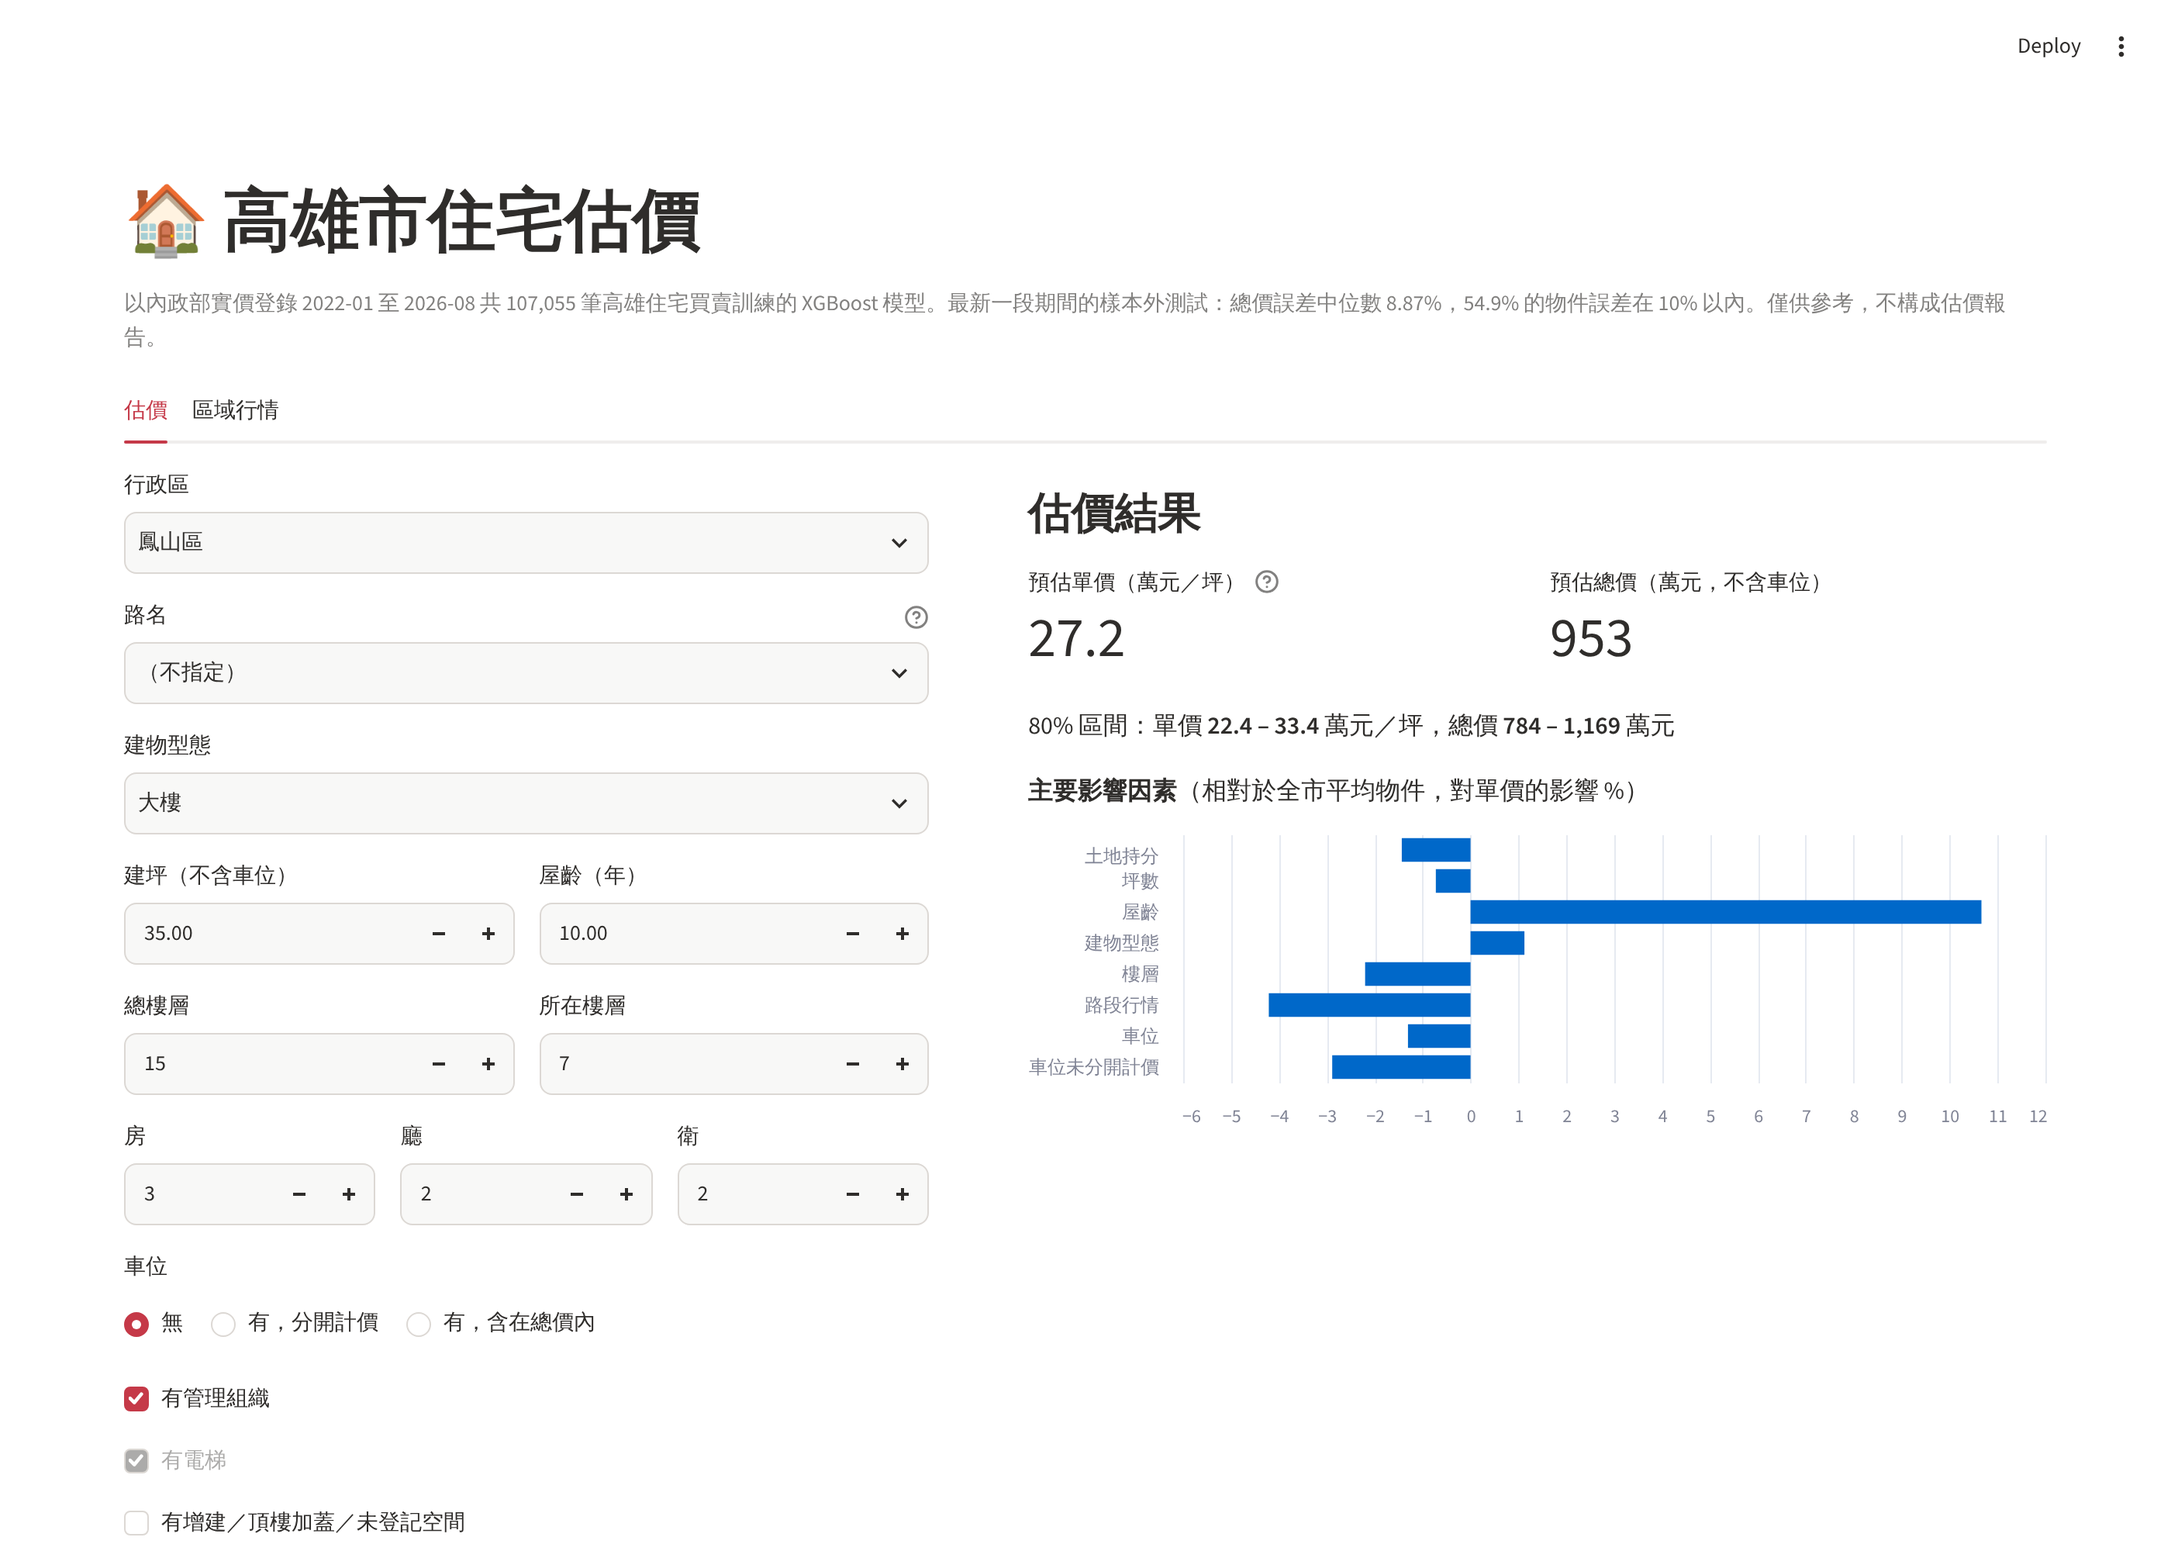
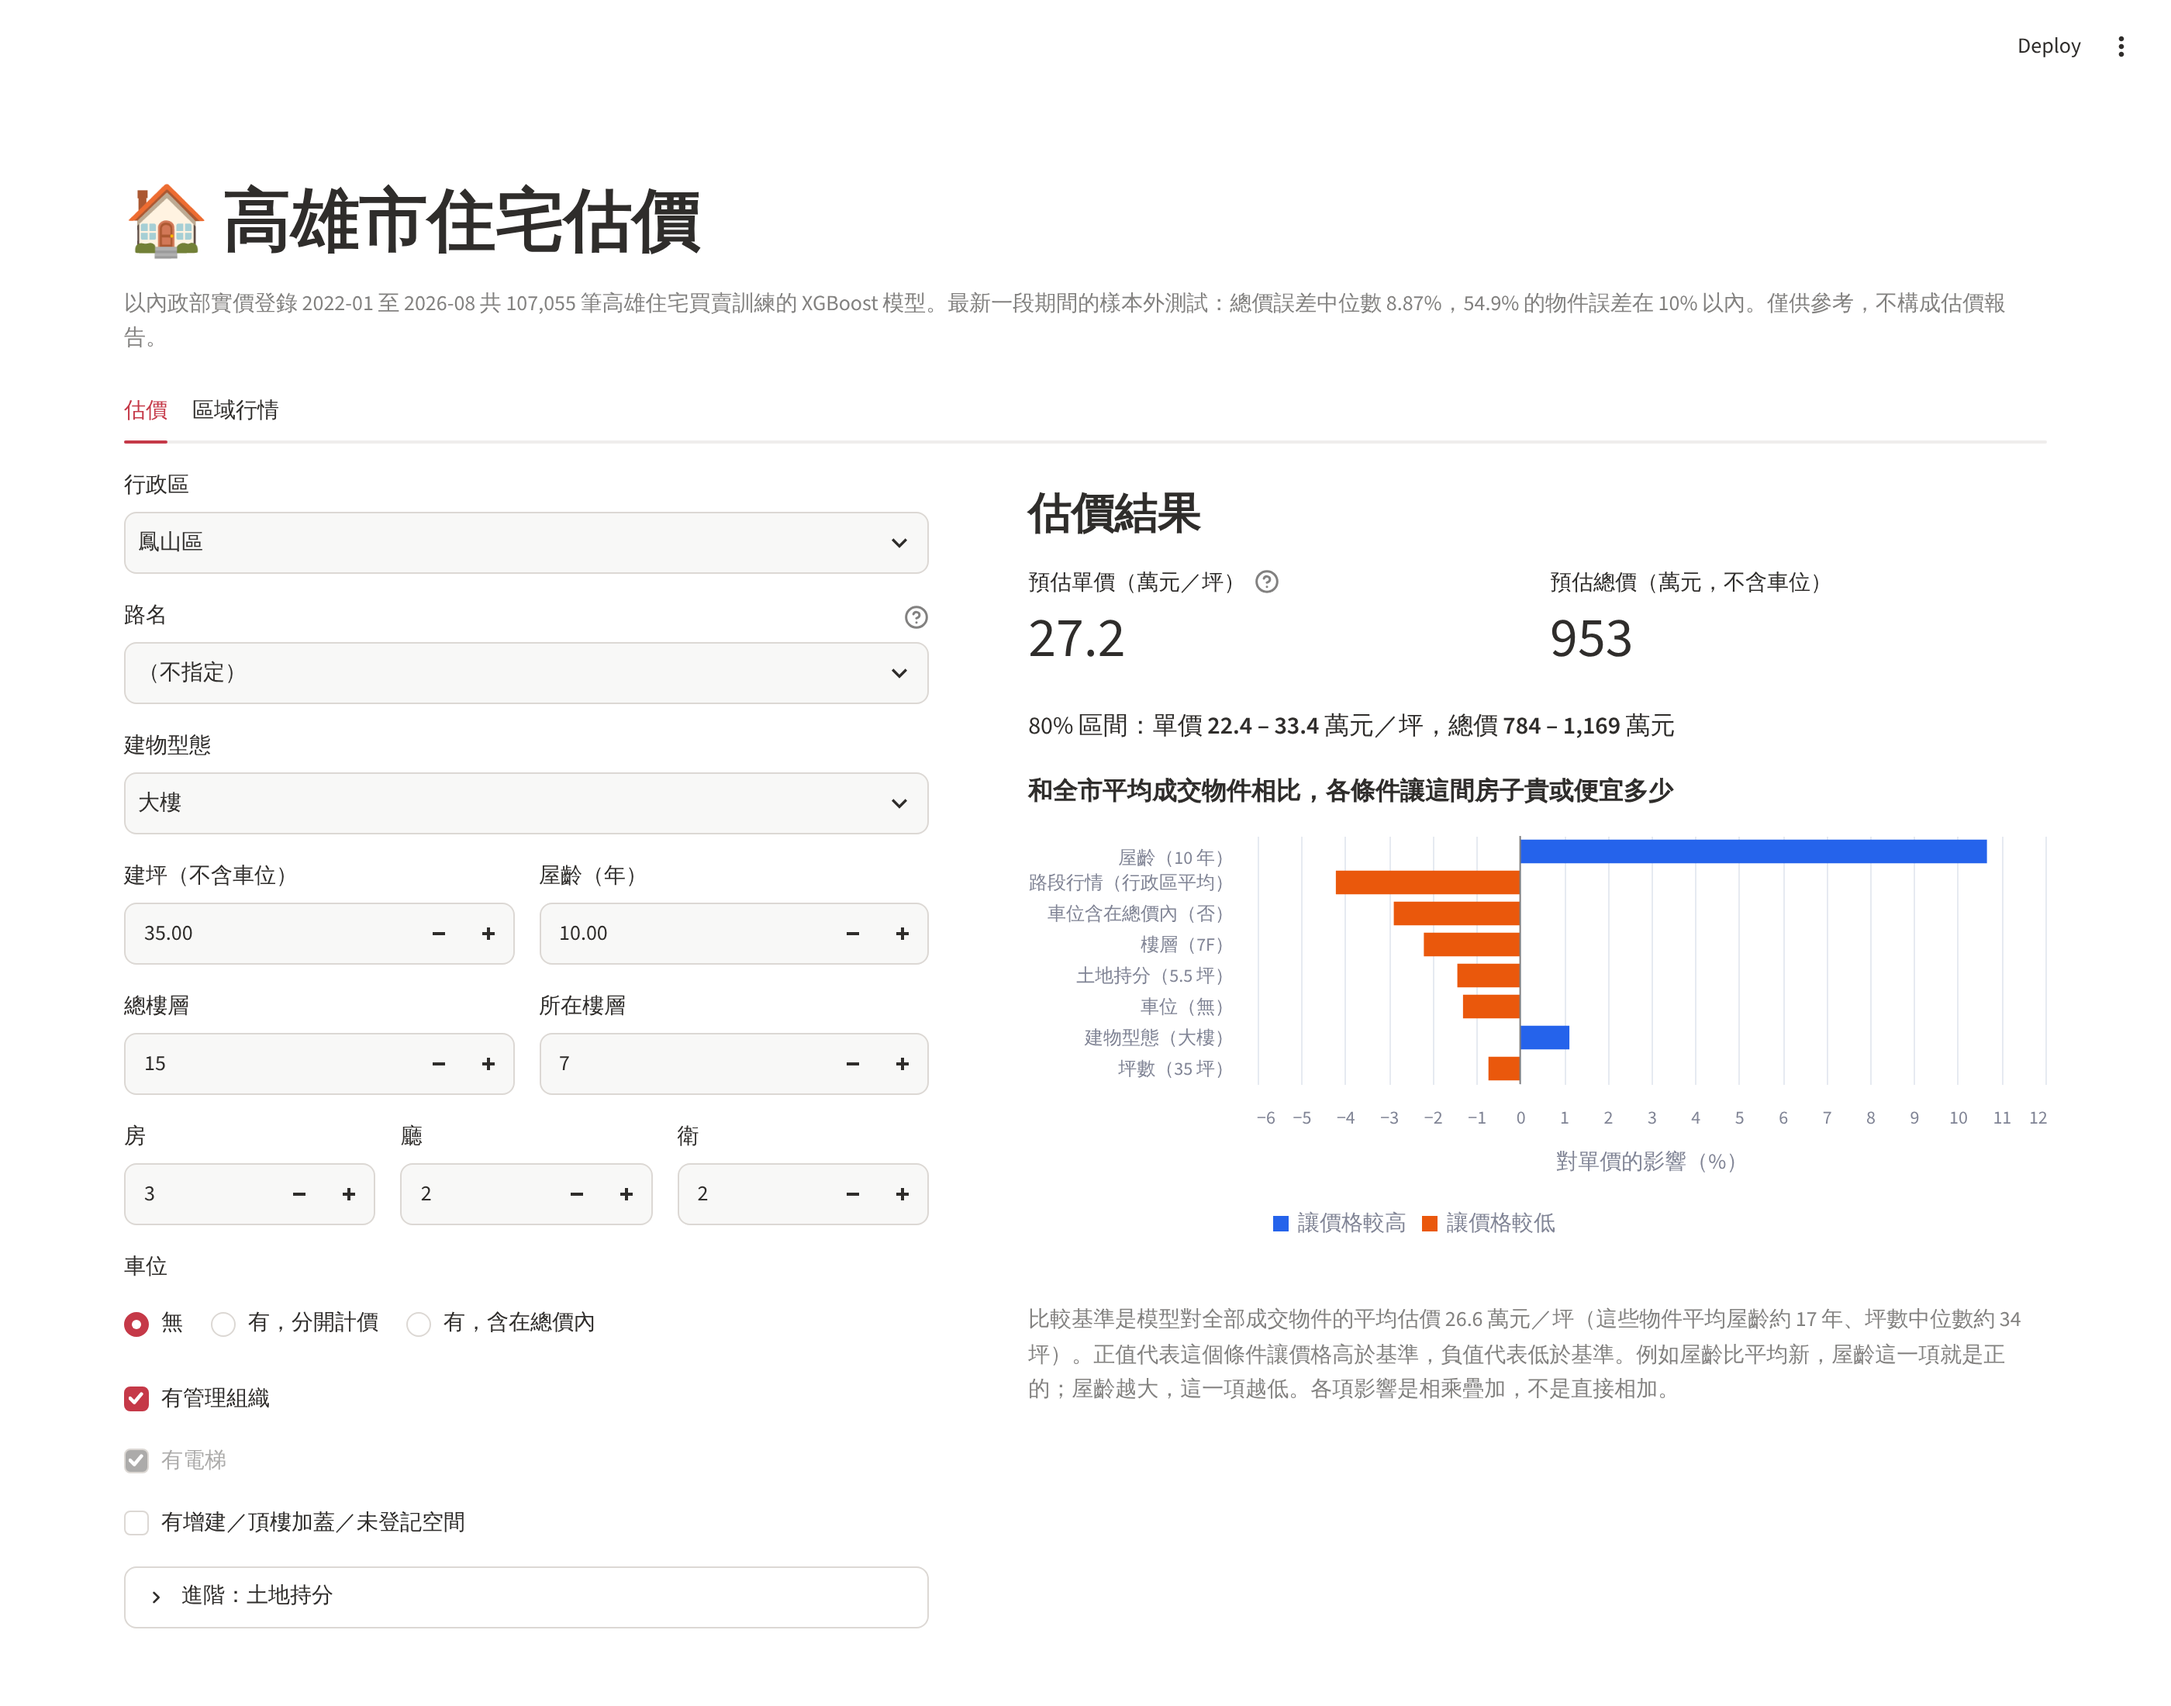
Make the app's price-driver chart easier to read
- title states the comparison: each condition vs the average sold home
- bar labels show the input value, e.g. 屋齡（10 年）
- caption explains the SHAP baseline (model's average valuation, with the
  sample's mean age and median size) and that a newer-than-average building
  shows a positive age effect
- blue / orange bars for effects that raise / lower the price
- metadata.json gains typical_home (mean age, median size); modeling writes it

Claude-Session: https://claude.ai/code/session_01NgvTP7Ly97TYE8UH3UQkfS

diff --git a/app/streamlit_app.py b/app/streamlit_app.py
@@ -7,6 +7,7 @@ from __future__ import annotations
 import json
 from pathlib import Path
 
+import altair as alt
 import numpy as np
 import pandas as pd
 import streamlit as st
@@ -20,10 +21,31 @@ LABELS_ZH = {
     "district": "行政區", "btype": "建物型態", "log_area": "坪數", "log_land_area": "土地持分",
     "age_years": "屋齡", "floor": "樓層", "total_floors": "總樓層", "floor_ratio": "樓層位置",
     "rooms": "房數", "halls": "廳數", "baths": "衛浴數", "elevator": "電梯", "management": "管理組織",
-    "partition": "隔間", "has_parking": "車位", "parking_unpriced": "車位未分開計價",
+    "partition": "隔間", "has_parking": "車位", "parking_unpriced": "車位含在總價內",
     "has_addition": "增建／頂樓加蓋", "t": "交易時間",
     "road_te": "路段行情", "road_n": "路段成交量",
 }
+
+def input_labels(row: dict, road: str, land: float) -> dict[str, str]:
+    """Human-readable value of each model input, shown next to its bar in the chart."""
+    yes_no = lambda v: "有" if v >= 0.5 else "無"  # noqa: E731
+    floor = row["floor"]
+    return {
+        "district": row["district"], "btype": row["btype"],
+        "log_area": f"{np.exp(row['log_area']):.0f} 坪", "log_land_area": f"{land:.1f} 坪",
+        "age_years": f"{row['age_years']:.0f} 年",
+        "floor": "透天" if pd.isna(floor) else f"{floor:.0f}F",
+        "total_floors": f"{row['total_floors']:.0f} 層",
+        "floor_ratio": "—" if pd.isna(row["floor_ratio"]) else f"{floor:.0f}/{row['total_floors']:.0f}",
+        "rooms": f"{row['rooms']} 房", "halls": f"{row['halls']} 廳", "baths": f"{row['baths']} 衛",
+        "elevator": yes_no(row["elevator"]), "management": yes_no(row["management"]),
+        "partition": yes_no(row["partition"]), "has_parking": yes_no(row["has_parking"]),
+        "parking_unpriced": "是" if row["parking_unpriced"] >= 0.5 else "否",
+        "has_addition": yes_no(row["has_addition"]),
+        "road_te": "行政區平均" if road == "（不指定）" else road,
+        "road_n": f"{row['road_n']:.0f} 筆",
+    }
+
 
 st.set_page_config(page_title="高雄房價估價", page_icon="🏠", layout="wide")
 
@@ -134,12 +156,38 @@ with tab_est:
         if road != "（不指定）" and road_n < 20:
             st.warning(f"{road} 的成交筆數較少（{road_n:.0f} 筆），路段行情已向行政區平均收斂。")
 
+        # SHAP: each bar = how far one input moves this home's price away from the
+        # model's average valuation of all sold homes (the last column is that baseline).
         contribs = booster.predict(dm, pred_contribs=True)[0]
-        contrib = pd.Series(contribs[:-1], index=meta["features"])
-        contrib = contrib.drop("t").rename(LABELS_ZH)
+        base_price = float(np.exp(contribs[-1]))
+        contrib = pd.Series(contribs[:-1], index=meta["features"]).drop("t")
         top = contrib.reindex(contrib.abs().sort_values(ascending=False).index).head(8)
-        st.markdown("**主要影響因素**（相對於全市平均物件，對單價的影響 %）")
-        st.bar_chart(pd.DataFrame({"影響 %": 100 * (np.exp(top) - 1)}), horizontal=True)
+        values = input_labels(row, road, land)
+        chart_df = pd.DataFrame({
+            "因素": [f"{LABELS_ZH[f]}（{values[f]}）" for f in top.index],
+            "影響 %": 100 * (np.exp(top.to_numpy()) - 1),
+        })
+        chart_df["方向"] = np.where(chart_df["影響 %"] >= 0, "讓價格較高", "讓價格較低")
+
+        st.markdown("**和全市平均成交物件相比，各條件讓這間房子貴或便宜多少**")
+        bars = alt.Chart(chart_df).mark_bar().encode(
+            x=alt.X("影響 %:Q", title="對單價的影響（%）"),
+            y=alt.Y("因素:N", sort=None, title=None, axis=alt.Axis(labelLimit=260)),
+            color=alt.Color("方向:N", scale=alt.Scale(domain=["讓價格較高", "讓價格較低"],
+                                                      range=["#2563eb", "#ea580c"]),
+                            legend=alt.Legend(orient="bottom", title=None)),
+            tooltip=["因素", alt.Tooltip("影響 %:Q", format="+.1f")],
+        )
+        st.altair_chart(bars + alt.Chart(pd.DataFrame({"x": [0]})).mark_rule(color="gray").encode(x="x:Q"),
+                        width="stretch")
+        typical = meta.get("typical_home", {})
+        st.caption(
+            f"比較基準是模型對全部成交物件的平均估價 {base_price:.1f} 萬元／坪"
+            + (f"（這些物件平均屋齡約 {typical['mean_age_years']:.0f} 年、坪數中位數約 {typical['median_area_ping']:.0f} 坪）"
+               if typical else "")
+            + "。正值代表這個條件讓價格高於基準，負值代表低於基準。例如屋齡比平均新，屋齡這一項就是正的；"
+              "屋齡越大，這一項越低。各項影響是相乘疊加，不是直接相加。"
+        )
 
 with tab_market:
     st.subheader("全市行情（品質調整後的房價指數）")

diff --git a/src/khp/modeling.py b/src/khp/modeling.py
@@ -46,6 +46,12 @@ def load_model_data() -> pd.DataFrame:
     return df[n_deals >= config.MIN_DISTRICT_DEALS].reset_index(drop=True)
 
 
+def typical_home(df: pd.DataFrame) -> dict:
+    """Mean / median characteristics of the modelling sample (used to explain SHAP baselines)."""
+    return {"mean_age_years": round(float(df["age_years"].mean()), 1),
+            "median_area_ping": round(float(df["area_ex_park_ping"].median()), 1)}
+
+
 def price_metrics(y_true_log_unit, y_pred_log_unit, area) -> dict:
     true_total = np.exp(y_true_log_unit) * area
     pred_total = np.exp(y_pred_log_unit) * area
@@ -205,6 +211,8 @@ def run(log=print) -> dict:
         "interval_log_resid_q10_q90": [float(q10), float(q90)],
         "test_metrics": results["XGBoost"],
         "test_period_start": TEST_START.strftime("%Y-%m-%d"),
+        # the "average home" behind the app's SHAP chart, so the baseline can be explained
+        "typical_home": typical_home(df),
     }
     (config.MODELS_DIR / "metadata.json").write_text(json.dumps(meta, ensure_ascii=False, indent=2), encoding="utf-8")
 
